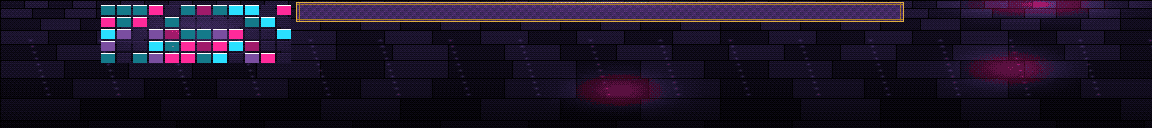
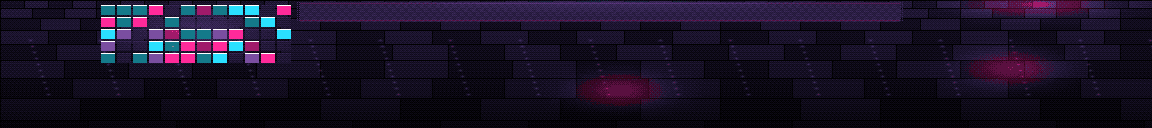
Fixes: Pound reads Feel.PoundActive; intro "one last dance" (club, not pub); counter rug redrawn flat (dark runner, dim trim, fringe; no gold frame that read as a step)

Changed region(s): [[0.25, 0.0, 0.8125, 0.1875]]

diff --git a/Tools/make_club_art.py b/Tools/make_club_art.py
@@ -213,13 +213,16 @@ def floor():
             col = lit[rng.randrange(len(lit))] if rng.random() < 0.7 else 0x221838
             cv.rect(tx + 1, ty + 1, tx + 15, ty + 11, col)
             cv.rect(tx + 1, ty + 1, tx + 15, ty + 2, 0xffffff if col != 0x221838 else 0x2e2048)
-    # carpet at the counter: purple with a gold trim
+    # runner rug at the counter, flat on the floor: dark, low contrast, a dim trim along its long edges and
+    # fringe at the ends (no bright frame, which read as a raised step)
     for y in range(2, 22):
-        for x in range(296, 904):
-            edge = y in (2, 21) or x in (296, 903)
-            inner = y in (4, 19) or x in (299, 900)
-            col = 0xe0b040 if edge else 0xa87a24 if inner else (0x3c2a5c if (x // 4 + y // 4) % 2 else 0x4a2a6a)
+        for x in range(300, 900):
+            trim = y in (3, 20)
+            col = 0x5a2450 if trim else (0x2c1e44 if (x // 4 + y // 4) % 2 else 0x32204c)
             cv.set(x, y, col)
+        for x in (297, 299, 900, 902):
+            if y % 2 == 0:
+                cv.set(x, y, 0x4a2a5a)
     # light
     for px_, depth in POOL_TABLES:
         cv.light(px_, 8 - depth, 90, 34, 0xff2a9a, 0.4)

diff --git a/Assets/Brawler/Fighter.cs b/Assets/Brawler/Fighter.cs
@@ -71,7 +71,7 @@ namespace Brawler
         };
         int Active => move switch
         {
-            Move.Kick => Feel.KickActive, Move.FlyingKick => Feel.FlyingKickActive, Move.BicycleKick => Feel.BicycleKickActive,
+            Move.Kick => Feel.KickActive, Move.FlyingKick => Feel.FlyingKickActive, Move.BicycleKick => Feel.BicycleKickActive, Move.Pound => Feel.PoundActive,
             Move.Swing => Feel.SwingActive, Move.Whip => Feel.WhipActive, Move.Special => Feel.SpecialActive, _ => Feel.PunchActive,
         };
         int Recovery => move switch

diff --git a/Assets/Brawler/Game.cs b/Assets/Brawler/Game.cs
@@ -470,7 +470,7 @@ namespace Brawler
             if (Frame < Feel.IntroFrames && !Won)
             {
                 Text(view.x + 96 * scale, view.y + 70 * scale, scale, "11:59 PM. THE OLD LAMP.");
-                Text(view.x + 96 * scale, view.y + 84 * scale, scale, "BRICK CAME FOR ONE LAST PINT.");
+                Text(view.x + 96 * scale, view.y + 84 * scale, scale, "BRICK CAME FOR ONE LAST DANCE.");
                 Text(view.x + 96 * scale, view.y + 98 * scale, scale, "AT MIDNIGHT THE GANG CLOSES IT.");
             }
             if (Won)

diff --git a/README.md b/README.md
@@ -1,6 +1,6 @@
 # Last Call
 
-A 16-bit-style beat-'em-up in the spirit of Battletoads & Double Dragon. It's 11:59 PM at the OLD LAMP strip club, Brick came for one last pint, and at midnight the gang closes the place.
+A 16-bit-style beat-'em-up in the spirit of Battletoads & Double Dragon. It's 11:59 PM at the OLD LAMP strip club, Brick came for one last dance, and at midnight the gang closes the place.
 
 > **A hobby project.** Two friends making the game we wish we'd had: we grew up playing Battletoads & Double Dragon as kids, and this is us having fun with that memory. Non-commercial, just for fun.
 

diff --git a/docs/design/01-lore.md b/docs/design/01-lore.md
@@ -7,7 +7,7 @@
 The game shows this as its intro card:
 
 > 11:59 PM. THE OLD LAMP.
-> BRICK CAME FOR ONE LAST PINT.
+> BRICK CAME FOR ONE LAST DANCE.
 > AT MIDNIGHT THE GANG CLOSES IT.
 
 At midnight the bell over the bar rings and **THE CLOSER** walks in to shut the club down. If Brick beats everyone, the win card says:
